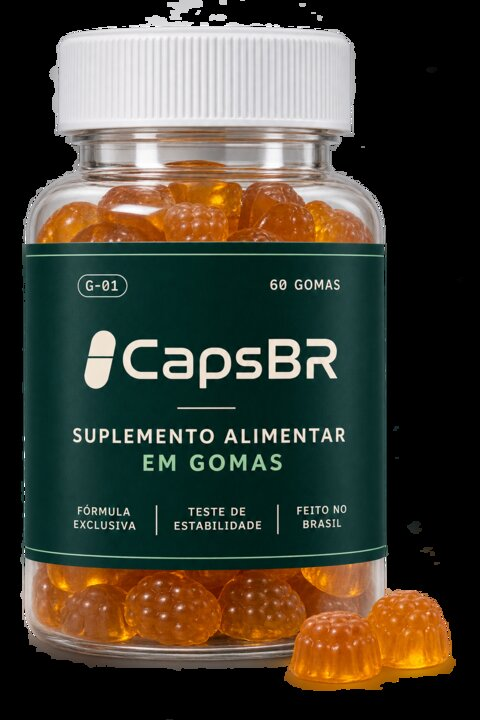
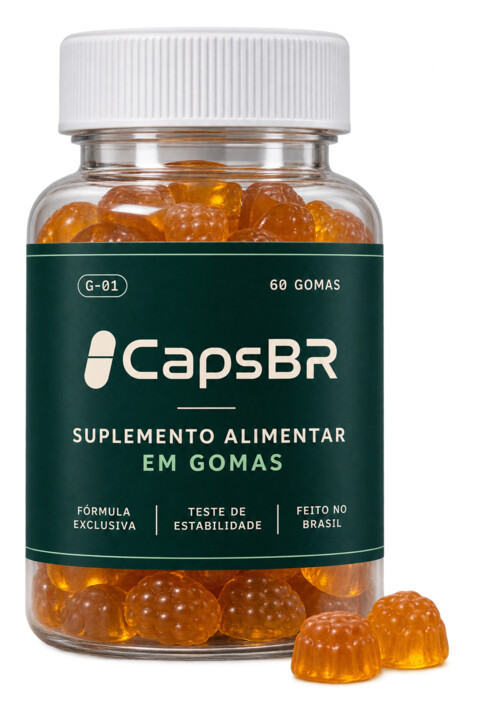
Fix mockup backgrounds: white on category cards, transparent on product hero
- Regenerate category card JPGs with white background (was flattening
  alpha to black during PNG->JPG conversion)
- Add transparent PNG cutouts for gomas/soluveis and use them for the
  product page hero photo, matching capsulas/liquidos

Claude-Session: https://claude.ai/code/session_01LBGgy8mu6UH6r6U7q1ZMpe

diff --git a/assets/js/product.js b/assets/js/product.js
@@ -27,13 +27,11 @@
   set('.js-porcao', p.porcao); set('.js-porcoes', p.porcoes);
   $('.js-bens').innerHTML = p.beneficios.map(b => `<li data-reveal><i><svg viewBox="0 0 12 12" fill="none"><path d="M2 6.5l2.5 2.5L10 3" stroke="currentColor" stroke-width="1.8" stroke-linecap="round" stroke-linejoin="round"/></svg></i>${b}</li>`).join('');
 
-  // foto recortada do produto (mesma foto do card, sem fundo quando disponível)
-  // Gomas e Solúveis ainda não têm o recorte sem fundo (só o designer pode
-  // gerar isso); por enquanto reaproveita a foto do card pra esses dois.
+  // foto recortada do produto, sem fundo (PNG com transparência)
   const CUT_BY_TIPO = {
     'Líquidos': { src: 'liquidos-recorte.png', w: 279, h: 820 },
-    'Gomas e Pastilhas': { src: 'gomas-card.jpg', w: 480, h: 720 },
-    'Solúveis': { src: 'soluveis-card.jpg', w: 480, h: 720 },
+    'Gomas e Pastilhas': { src: 'gomas-recorte.png', w: 502, h: 820 },
+    'Solúveis': { src: 'soluveis-recorte.png', w: 544, h: 820 },
   };
   const cut = CUT_BY_TIPO[p.tipo] || { src: 'capsulas-recorte.png', w: 572, h: 820 };
   const photo = $('.js-photo'); if (photo) photo.innerHTML = `<img src="assets/img/${cut.src}" alt="${p.titulo}, ${isLiq ? 'frasco conta-gotas' : 'pote'} com a sua marca" width="${cut.w}" height="${cut.h}" fetchpriority="high" decoding="async">`;
